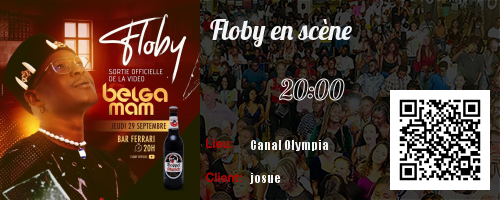
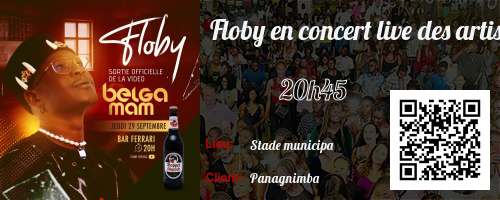
ticket generation

diff --git a/ticket/createTicket.js b/ticket/createTicket.js
@@ -27,7 +27,7 @@ async function createTicket(Pevtimg,pqrcode,peventtitle,pheure,plieu,pnomclient)
         
         ctx.strokeText(pheure, ((width+60)/2),(height/2))
     
-        ctx.font = '10pt Impact'
+        ctx.font = '10pt lobster'
         ctx.fillText(plieu, (width/2),(height-50))
         ctx.fillText(pnomclient, (width/2),(height-17))
     
